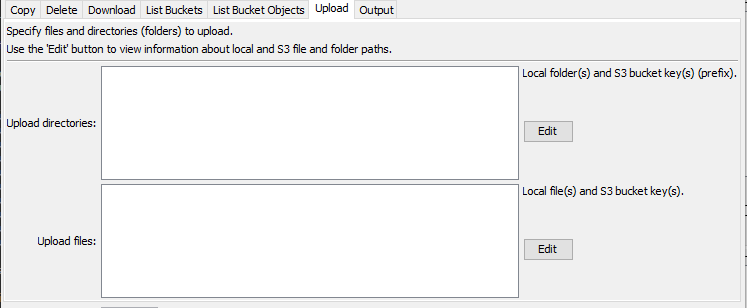
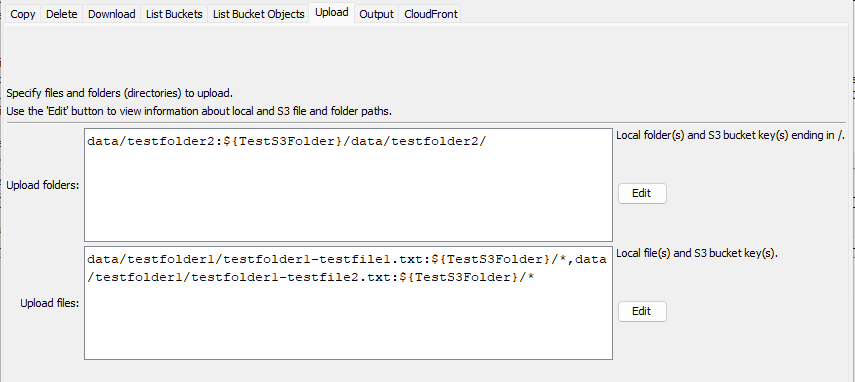
Update upload objects code, tests, and doc for the current design, issue #30

diff --git a/doc-user-mkdocs-project/docs/command-ref/AwsS3/AwsS3.md b/doc-user-mkdocs-project/docs/command-ref/AwsS3/AwsS3.md
@@ -101,6 +101,12 @@ using keys to identify objects.
 The S3 API does not provide a service to delete folders.
 Therefore folder contents are listed first and then the corresponding files are deleted.
 
+Because deleting objects is a destructive action,
+the `DeleteFoldersMinDepth` default value requires 3 levels of folder depth by default
+and the `DeleteFoldersScope` default value of `FolderFiles` will only delete files in the folder,
+not all files recursively.
+These parameter values can be changed using the command editor.
+
 **<p style="text-align: center;">
 ![AwsS3-delete](AwsS3-delete.png)
 </p>**
@@ -146,6 +152,14 @@ Use the ***Output*** tab to set the output table and file.
 </p>**
 
 ### Upload Objects ###
+
+Files on a local computer can be uploaded to S3 for storage as S3 objects.
+To facilitate bulk uploads, folders on the computer can also be uploaded.
+The filename on the local computer will automatically match the S3 object key for folder uploads.
+File uploads can specify a different key for the S3 object.
+
+If appropriate, the [`DeleteObjects`](#delete-objects) S3 command can be used to delete a folder before upload
+to ensure that the S3 objects do not contain out of date files.
 
 **<p style="text-align: center;">
 ![AwsS3-upload](AwsS3-upload.png)
@@ -272,8 +286,8 @@ Command Parameters - Upload Objects
 
 |**Parameter**&nbsp;&nbsp;&nbsp;&nbsp;&nbsp;&nbsp;&nbsp;&nbsp;&nbsp;&nbsp;&nbsp;&nbsp;&nbsp;&nbsp;&nbsp;&nbsp;&nbsp;&nbsp;&nbsp;&nbsp;&nbsp;&nbsp;&nbsp;&nbsp;&nbsp;&nbsp;&nbsp;&nbsp;&nbsp;&nbsp;&nbsp;&nbsp;&nbsp;|**Description**|**Default** |
 |-----|-----------------|-----------------|
-|`UploadDirectories`| List of directories (folders) to upload using syntax: `folder1:key1,folder2:key2`, `folder` is a local folder name and `key` identifies an S3 object, can use `${Property}` syntax. | |
-|`UploadFiles`| List of files to upload using syntax: `file1:key1,file2:key2`, where `file` is a local file name and the `key` identifies an S3 object, can use `${Property}` syntax.<br><br>The local file can contain `*` wildcard to match a pattern, in which case the last part of the key (the file in the path) must be `*` to indicate that the S3 file will have the same name as the local file. | |
+|`UploadFolders`| List of folders (directories) to upload using syntax: `folder1:key1,folder2:key2`, where `folder1` is a local folder name and `key1` (ending in `/`) identifies an S3 virtual folder. Can use `${Property}` syntax. | |
+|`UploadFiles`| List of files to upload using syntax: `file1:key1,file2:key2`, where `file1` is a local file name and the `key1` identifies an S3 object. Can use `${Property}` syntax.<br><br>The local file can contain `*` wildcard in the last part to match a filename pattern in a folder (e.g., `somefolder/*.png`).<br><br>If the local file uses a wildcard, then the last part of the S3 object key must be `*` (e.g., `/somefolder/*`) to indicate that the S3 file will have the same name as the local file.  If file names in a folder need to be specifically renamed, don't use wildcards. | |
 
 ### Output Command Parameters ###
 
@@ -334,6 +348,13 @@ Automated tests require AWS permissions to run.
 ## Troubleshooting ##
 
 If there is an error, view the TSTool log file using the ***Tools / Diagnostics - View Log File...*** menu.
+If necessary, use the 
+[`SetDebugLevel`](https://opencdss.state.co.us/tstool/latest/doc-user/command-ref/SetDebugLevel/SetDebugLevel/)
+command to troubleshoot (turn debug on to the log file before a command and then set levels to zero after a command).
+
+### Files are not deleted as expected ###
+
+Confirm all command parameters, in particular the `DeleteFoldersScope`.
 
 ### Uploaded File is Not Listed in S3 ###
 
@@ -346,3 +367,5 @@ Sometimes local files that are uploaded are not visible.
 
 *   [`AwsS3Catalog`](../AwsS3Catalog/AwsS3Catalog.md) command
 *   [`AwsCloudFront`](../AwsCloudFront/AwsCloudFront.md) command
+*   [`If`](https://opencdss.state.co.us/tstool/latest/doc-user/command-ref/If/If/) command
+*   [`SetDebugLevel`](https://opencdss.state.co.us/tstool/latest/doc-user/command-ref/SetDebugLevel/SetDebugLevel/) command
